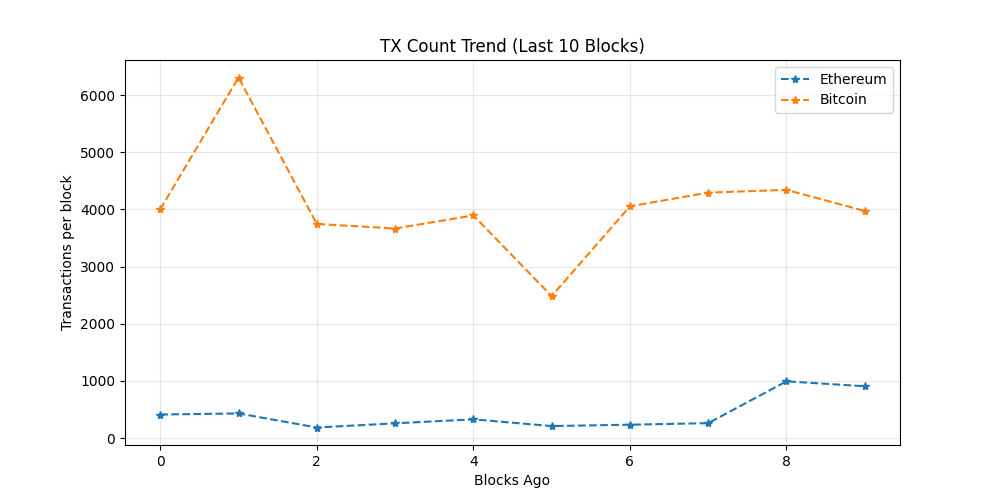
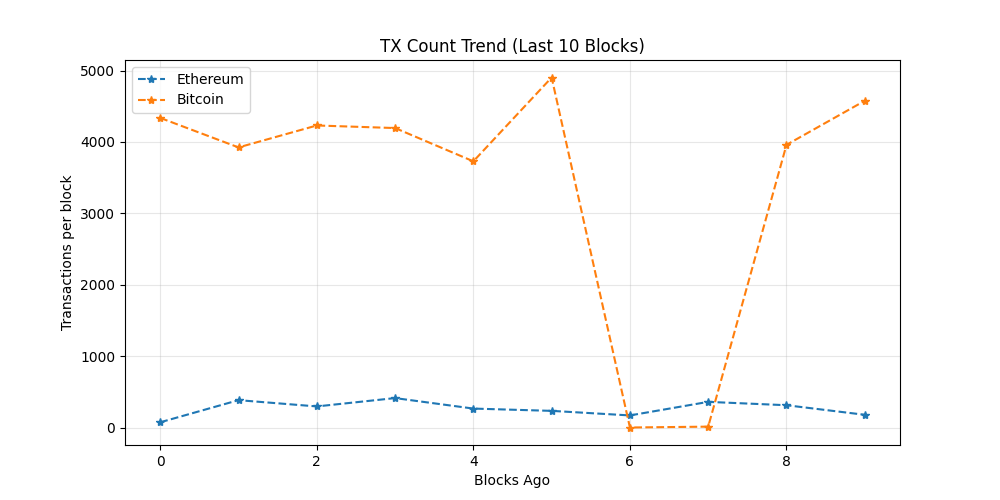
chore: update on-chain dashboard

diff --git a/README.md b/README.md
@@ -19,7 +19,7 @@ The README itself acts as the dashboard and is regenerated automatically on a 6 
 demonstrating a production-style, infrastructure-focused observability workflow rather
 than a traditional UI-driven approach.
 
-_Last updated: 2026-05-21 10:02 UTC_
+_Last updated: 2026-05-21 15:50 UTC_
 
 ## API Usage (GetBlock.io)
 - Calls used: **24**
@@ -27,8 +27,8 @@ _Last updated: 2026-05-21 10:02 UTC_
 ## Network Metrics
 | Chain | Block Height | TX Count | TPS (10 blk avg) | Block Util | Avg Fee |
 |------|-------------|----------|------------------|------------|---------|
-| Ethereum | 25142892 | 906 | 75.5 | 70.58% | 0.1 Gwei |
-| Bitcoin | 950355 | 3974 | 7.51 | 99.8% | N/A |
+| Ethereum | 25144628 | 179 | 14.92 | 27.97% | 0.1 Gwei |
+| Bitcoin | 950387 | 4577 | 0.0 | 99.88% | N/A |
 
 ## Visuals
 ### Transactions Trend
@@ -43,10 +43,10 @@ _Last updated: 2026-05-21 10:02 UTC_
 ## Whale Alerts (latest block)
 - Transaction hashes are truncated for readability.
 - Full hashes are available in `dashboards/metrics.json`
-- Bitcoin | 133.49 BTC | `b42b156564ed…`
-- Bitcoin | 494.27 BTC | `c0434c81b333…`
-- Bitcoin | 113.32 BTC | `2c839a241223…`
-- Bitcoin | 123.71 BTC | `36bc3eda77ef…`
+- Bitcoin | 332.56 BTC | `923c6aa51113…`
+- Bitcoin | 182.63 BTC | `344140cc799c…`
+- Bitcoin | 182.63 BTC | `326ea03868d0…`
+- Bitcoin | 492.66 BTC | `53e15e5c83ab…`
 
 ## Run locally
 
